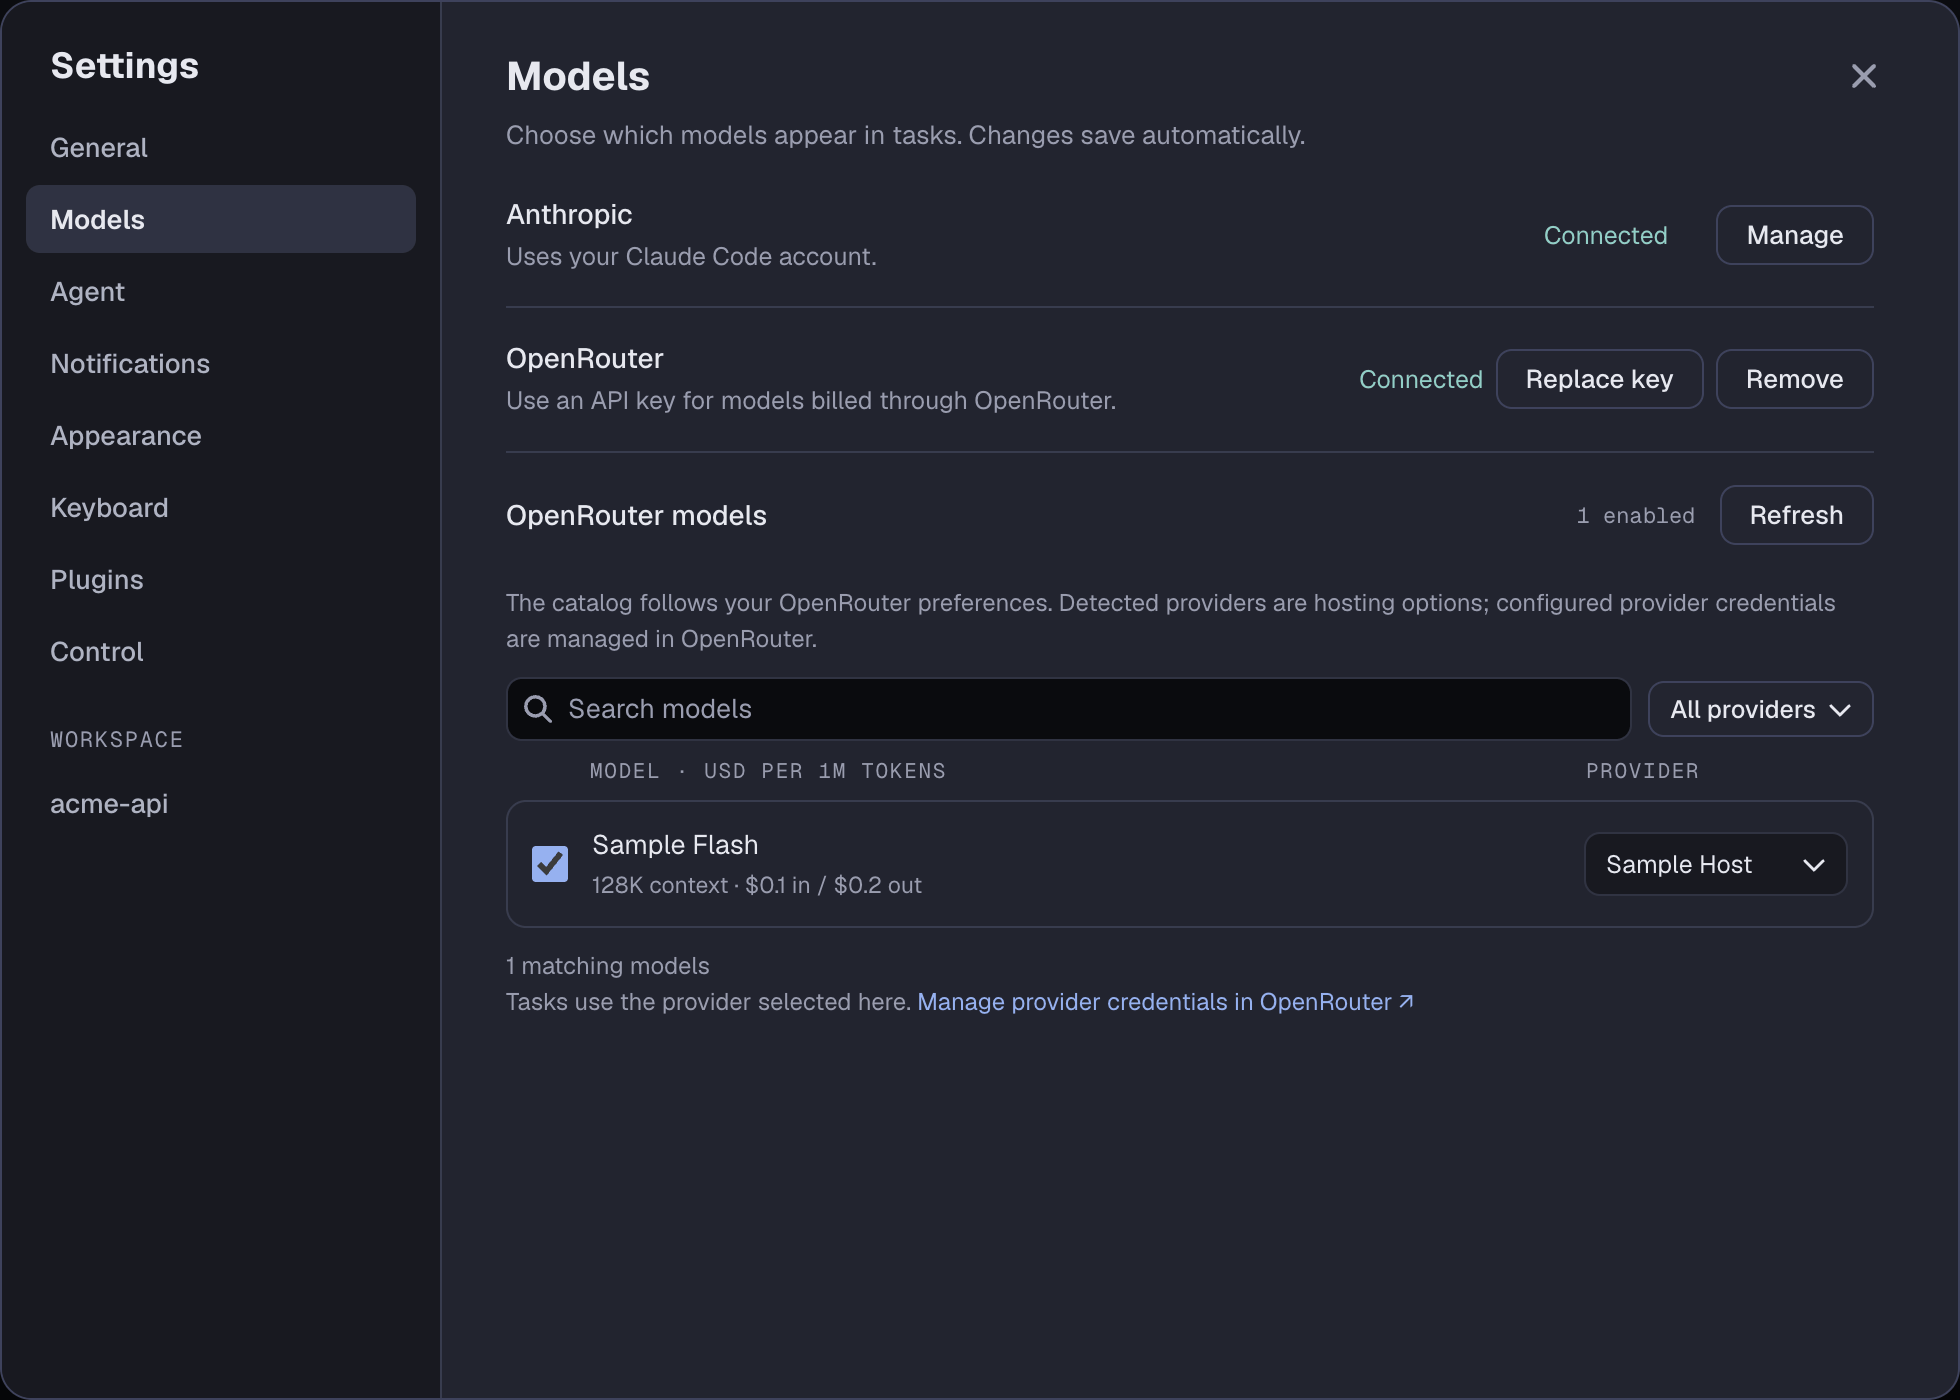
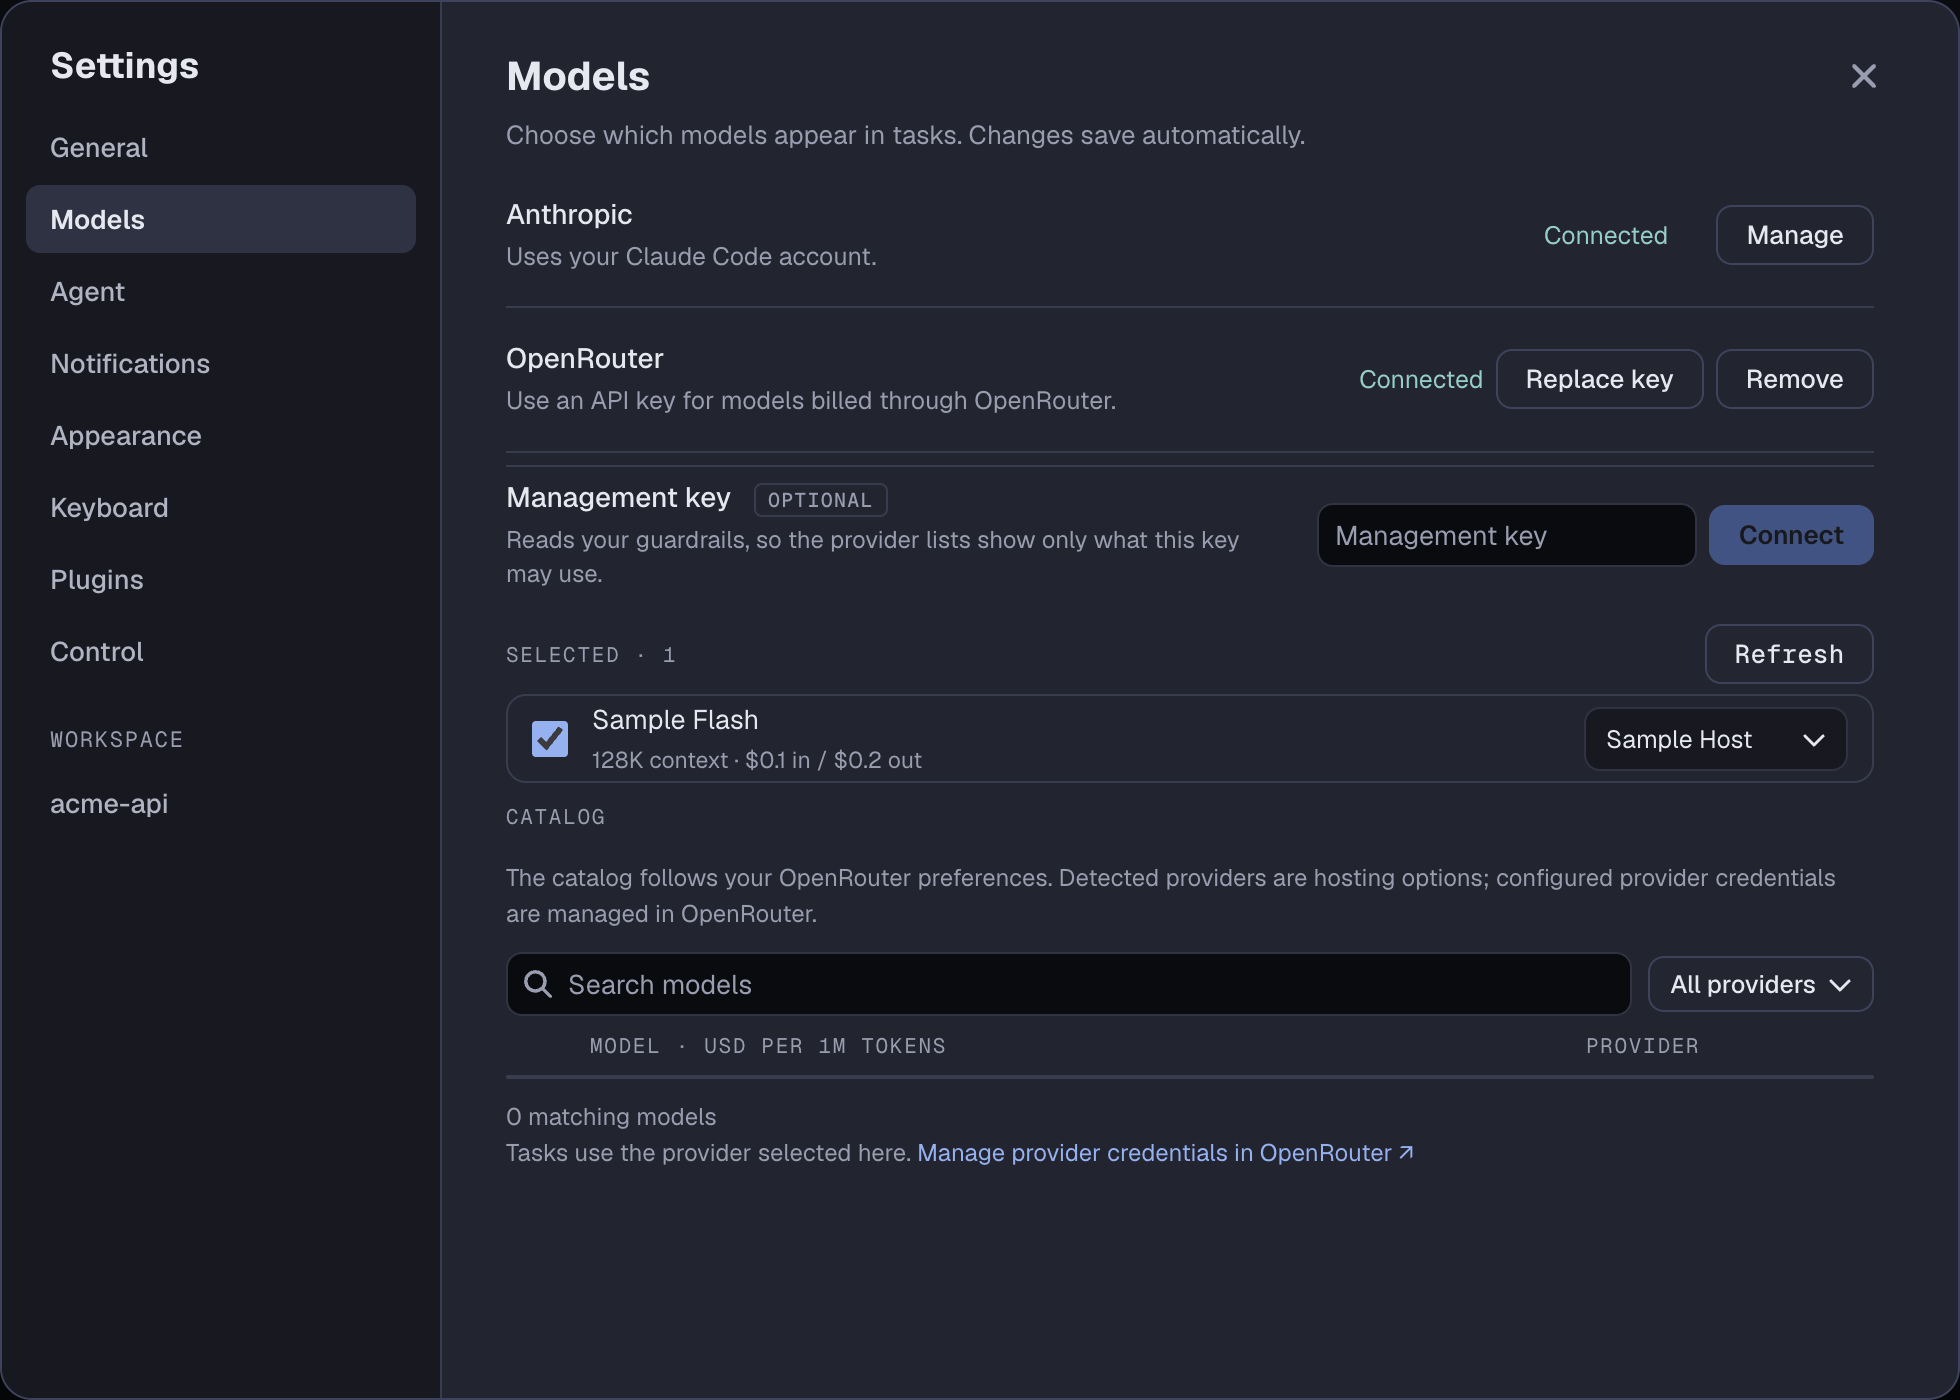
566: document the Models polish and the management key
Because:
- the PR landed no doc updates outside docs/design: the Selected
  section, tokenised search, provider menus and the optional
  management key were undocumented, and docs/openrouter-integration-spec.md
  still said Settings only links to OpenRouter integrations rather
  than requesting a management key

This commit:
- updates the user guide's OpenRouter models section: the Selected
  section over the scrolling catalog, tokenised search, provider menus
  with their own search and scrolling, the management key (what
  connecting it does, what Replace key/Remove do, and what both
  provider lists show without one or before a guardrails read
  resolves), and corrects the credit-balance note to say Glade's own
  management key only reads guardrails, never the balance
- adds a management key and guardrails section to the integration
  spec: what it stores, how it validates, the union-of-guardrails
  filter, the re-read schedule, and the race guard; records the known
  limitation that GET /api/v1/guardrails returns every guardrail on
  the account, not only the ones assigned to this key, as a landing
  limitation and in the spec section itself
- updates product.md's Models bullet with the Selected section and the
  management key
- regenerates docs/images/guide/settings-models.png from the real app
  (scripts/fixtures/settings-models.mjs), which now shows the Selected
  section, search, provider filter and the management key row

Changed region(s): [[0.249, 0.3379, 0.9648, 0.8293]]

diff --git a/docs/openrouter-integration-spec.md b/docs/openrouter-integration-spec.md
@@ -15,10 +15,30 @@ parameters and context window. Provider filtering intersects API results with th
 explicit; cached choices survive relaunch.
 
 Detected providers are hosting options, not configured BYOK credentials. Ordinary inference keys cannot enumerate
-those credentials. Settings links to OpenRouter integrations rather than requesting a management key. Catalog
+those credentials. Settings links to OpenRouter integrations for BYOK credential management. Catalog
 availability is not a paid connection test or a guarantee that every model runs the complete agent workflow.
 [Filtered catalog](https://openrouter.ai/docs/api/api-reference/models/list-models-filtered-by-user-provider-preferences-privacy-settings-and-guardrails),
 [model endpoints](https://openrouter.ai/docs/api/api-reference/endpoints/list-all-endpoints-for-a-model).
+
+### Management key and guardrails (#566)
+
+Settings › Models offers an optional management key beside the inference key, stored and encrypted the same way
+(`setOpenRouterManagementKey`/`openRouterGuardrailProviders`, `src/main/db/repositories/openrouter.ts`). Connecting
+it validates it by reading `GET /api/v1/guardrails`
+([guardrails](https://openrouter.ai/docs/api/api-reference/guardrails/list-guardrails)): a key the API refuses
+changes nothing. The reading filters both provider lists — the catalog's provider filter and each model's own
+provider menu — to the union of every guardrail's `allowed_providers`. Removing the key, or an account with no
+guardrails, degrades both lists back to the whole catalog. A background re-read follows a catalog refresh and app
+launch, throttled to once a minute; a failed or throttled read leaves the last known restriction, never clearing it
+silently. The management key is never used for inference, only this read, and reading it again while the key
+changes under it (removed, replaced, or the inference key replaced) is guarded the same way the inference key's own
+`refresh` guards a stale catalog read, so a stale reading can never overwrite a newer one (`OpenRouterService`,
+`src/main/openrouter/service.ts`).
+
+**Known limitation:** `GET /api/v1/guardrails` returns every guardrail on the account, not only the ones assigned to
+this particular key. The filter Glade applies is the union of `allowed_providers` across all of them, which can be
+wider than what this key is actually restricted to use. Narrowing the filter to the key's own assigned guardrails
+would need an endpoint that names them, which the API does not currently expose.
 
 Choose one provider per model, then enable it. Only enabled choices join Claude models in task, retry and default
 pickers. Providers are chosen in Settings. Changing provider creates a different route; existing tasks retain their
@@ -161,7 +181,8 @@ request completion and popover opening refresh through one coalesced read at mos
 to include the final request of a burst. A 402 marks the sidebar row blocked until inference succeeds; a successful
 metadata read alone does not clear the credit failure. Decryption/read failures cannot crash app launch. Explicit Refresh
 bypasses that cache. A failed read preserves the previous figures/age; unknown remains distinct from zero.
-No figures or key labels reach logs or plugin feeds. Account credit balance needs a management key and is omitted.
+No figures or key labels reach logs or plugin feeds. Account credit balance needs a management key and is omitted;
+the optional management key Settings › Models now accepts (above) only reads guardrails, never the balance.
 [Current key](https://openrouter.ai/docs/api/api-reference/api-keys/get-current-api-key),
 [account credits](https://openrouter.ai/docs/api/api-reference/credits/get-remaining-credits).
 
@@ -210,8 +231,9 @@ chat/log rows, relaunch and selections in both directions. Test mode uses the fa
 prove SDK transcript handoff; mocked SDK/runtime integration tests and the private live probes provide that evidence. Capture/e2e mode uses an offline catalog,
 even if supplied a real key.
 
-Approved UI references are [screens 56–59](design/openrouter-mockups.md). Migrations 65–66 (including upgrades from earlier preview schemas) and typed bridge commands
-extend existing repositories and Settings/picker surfaces without a general backend refactor.
+Approved UI references are [screens 56–64](design/openrouter-mockups.md). Migrations 65, 66 and 68 (including
+upgrades from earlier preview schemas) and typed bridge commands extend existing repositories and Settings/picker
+surfaces without a general backend refactor.
 
 
 ## Landing limitations and follow-ups
@@ -234,6 +256,10 @@ capabilities; the initial change keeps native same-source delegation and Claude-
   a source/route switch. Saving the choice until a safe boundary is not built.
 - **Claude-to-Claude limit recovery:** changing Claude models from the picker leaves a usage-limit pause in place.
 - **Cost attribution:** neither per-task nor per-child billed cost is available for either source.
+- **Guardrails scope:** the management key's `GET /api/v1/guardrails` read returns every guardrail on the account,
+  not only the ones assigned to this key, so the filter Glade applies is the union of `allowed_providers` across
+  all of them (#566). This can be wider than what the key is actually restricted to use; the API gives no way to
+  narrow it to the key's own guardrails.
 - **Provider changes:** choosing another provider disables the previous pair for existing tasks and resets a default
   using that pair to Claude, rather than migrating those selections.
 - **Usage gaps:** a one-request turn may precede OpenRouter's accounting update; a Claude child's final usage read

diff --git a/docs/user-guide.md b/docs/user-guide.md
@@ -733,9 +733,25 @@ provider for each model you want, then enable its checkbox. **Refresh** reads th
 validates a new key before saving; **Remove** disconnects OpenRouter without deleting routes or task history.
 Removing or disabling a default route restores a Claude default so **New task** continues to work.
 
+A **Selected · N** section lists your enabled models, alphabetised, above the scrolling catalog, so the ones you
+use stay visible while you browse. The catalog's search splits what you type into words; every word must appear in
+a model's id, name or description, in any order, so "flash sample" matches as readily as "sample flash". Choosing a
+model's provider, or the catalog's **Filter providers**, opens a menu of every tool-capable provider alphabetised,
+with its own search field and a scroll bar once the list runs long.
+
 The detected provider list shows hosting options. Configured provider credentials are managed in OpenRouter;
 the link under the catalog opens its integrations page. A normal inference key cannot list those credentials.
 Prices are estimates per million tokens for the selected endpoint; OpenRouter records the actual bill.
+
+An optional **management key**, connected beside the inference key, reads your account's guardrails
+(`GET /api/v1/guardrails`) and filters both provider lists — the catalog's **Filter providers** and each model's own
+provider menu — to the providers your guardrails allow. It's validated as it connects: a key the API refuses changes
+nothing. **Replace key** swaps it for another; **Remove** drops the restriction, and both lists go back to showing
+every detected provider. Without a management key, or while an account has no guardrails, both lists show the whole
+catalog, unfiltered. The restriction is read again after a catalog refresh and at launch, at most once a minute;
+read failures keep the last known restriction. A management key only narrows what Glade shows you here: it is never
+used to make inference requests, and doesn't unlock BYOK credential listings or the account-wide credit balance (see
+below).
 
 Enabled choices appear beside Claude models in the task picker and Settings › Agent defaults, grouped by billing
 source. An OpenRouter choice includes its selected provider. The task picker selects the saved pair; change its
@@ -784,7 +800,8 @@ for API-reported USD spend today, this week, this month and all time, the config
 free-request allowance when reported. UTC periods include all activity on the key, including outside Glade. The
 reading is cached across launches, refreshed on connection/launch and after requests at most once a minute, and can
 be refreshed manually. Failed reads keep the last reading and show its age/error. The account-wide credit balance
-requires a management key, which Glade does not request. Claude's subscription meter remains separate.
+requires a management key; Glade's own management key (above) only reads guardrails, never the balance. Claude's
+subscription meter remains separate.
 
 Current limits and unverified workflows are listed in [landing limitations and follow-ups](openrouter-integration-spec.md#landing-limitations-and-follow-ups).
 In particular, all background children stop on a limit-switch, busy/open-card switches are refused, a Claude-to-Claude

diff --git a/docs/product.md b/docs/product.md
@@ -378,7 +378,7 @@ Settings (⌘,) opens on Agent. Changes save as you make them.
   while it isn't signed in, or a lost login stops a task, a **Log in** row runs its login, as the logged-out card's
   does (see Logged out). How much of its usage limits is used shows in the usage meter at the foot of the sidebar (see
   Usage).
-- **Models:** the Anthropic account and encrypted OpenRouter key, API-discovered provider/model catalog, and the model/provider pairs enabled in task pickers. Provider credentials stay in OpenRouter; Glade pins each curated route to its selected host without fallback. The sidebar shows API-reported key spend and allowance separately from Claude subscription limits.
+- **Models:** the Anthropic account and encrypted OpenRouter key, API-discovered provider/model catalog, and the model/provider pairs enabled in task pickers, led by a Selected section over the scrolling, tokenised-search catalog. Provider credentials stay in OpenRouter; Glade pins each curated route to its selected host without fallback. An optional management key, encrypted the same way, reads the account's guardrails and filters both provider lists to what they allow; without one, both show the whole catalog. The sidebar shows API-reported key spend and allowance separately from Claude subscription limits.
 - **Agent:** the defaults for new tasks (model, effort and permissions: Ask first or Allow all; **Allow edits** is shown
   but disabled, as it isn't a mode yet), and two switches for what the agent keeps current: **Status summary**
   (`set_status` every turn) and **Task titles** (`set_title` from your first message). A session started with one off
